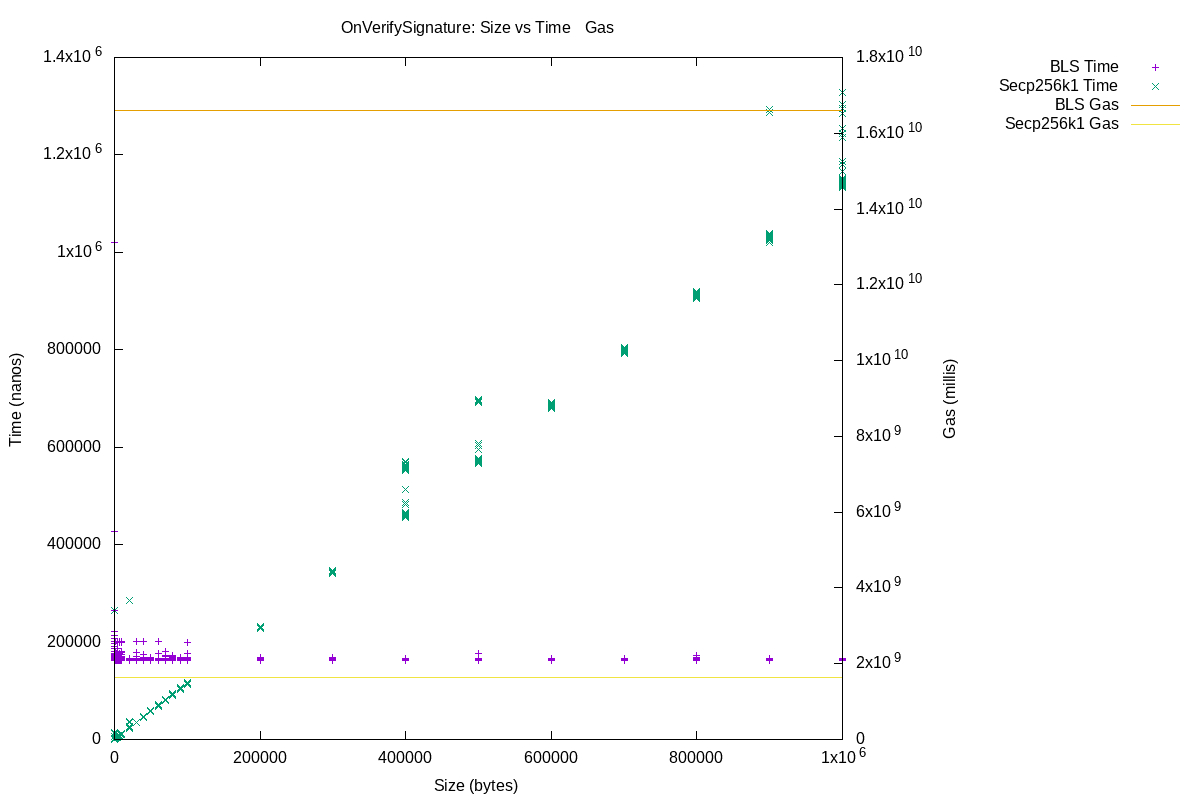
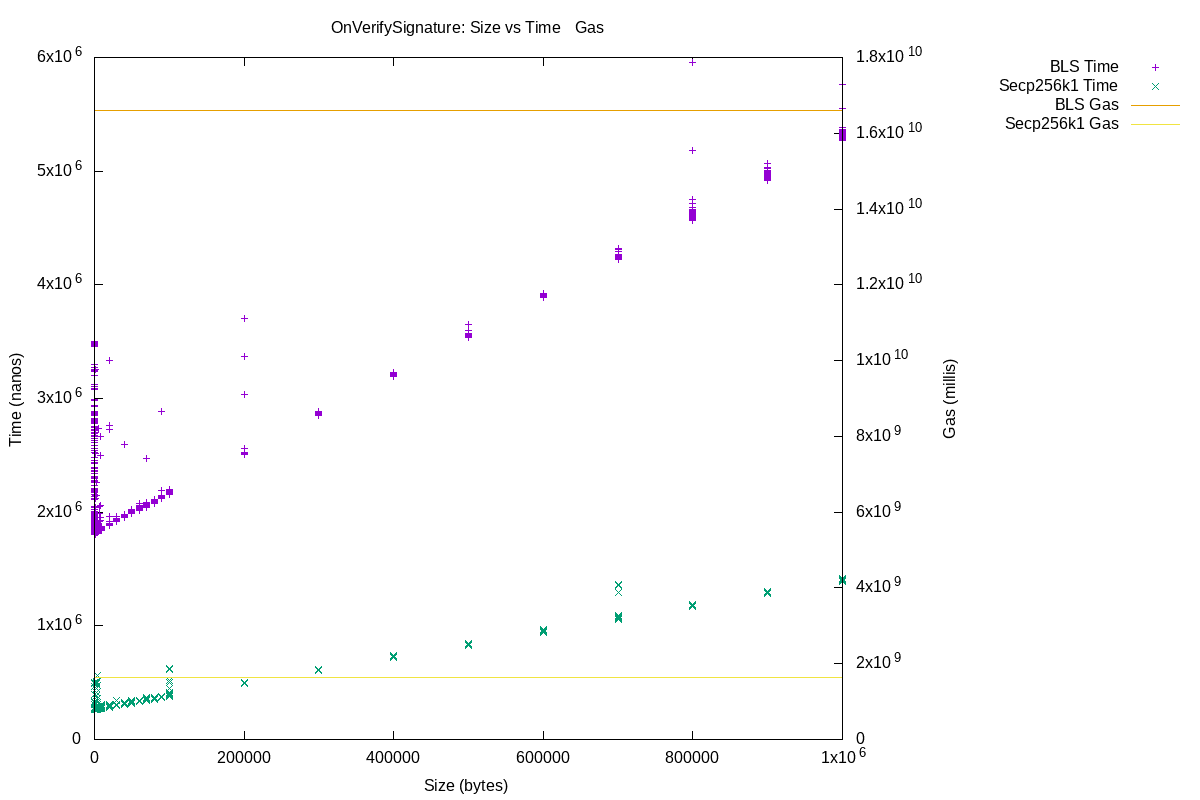
GAS-1160: Pass in a valid signature.

diff --git a/testing/calibration/src/bin/on_verify_signature.rs b/testing/calibration/src/bin/on_verify_signature.rs
@@ -5,7 +5,7 @@ use fil_gas_calibration_actor::{Method, OnVerifySignatureParams};
 use fvm_gas_calibration::*;
 use fvm_shared::address::Address;
 use fvm_shared::crypto::signature::SignatureType;
-use rand::{thread_rng, Rng};
+use rand::{thread_rng, Rng, RngCore};
 
 const CHARGE_NAME: &str = "OnVerifySignature";
 const METHOD: Method = Method::OnVerifySignature;
@@ -20,19 +20,45 @@ fn main() {
     let mut obs = Vec::new();
     let mut rng = thread_rng();
 
+    // Just some random data over which we can generate an example signature.
+    // Having a valid BLS signature is important otherwise verification is
+    // an instant rejection without hasing the input data.
+    let mut data = vec![0u8; 100];
+    rng.fill_bytes(&mut data);
+
     for sig_type in sig_types.iter() {
         let label = format!("{sig_type:?}");
 
-        let signer = match sig_type {
+        let (signer, signature) = match sig_type {
             SignatureType::Secp256k1 => {
                 let sk = libsecp256k1::SecretKey::random(&mut rng);
                 let pk = libsecp256k1::PublicKey::from_secret_key(&sk);
-                Address::new_secp256k1(&pk.serialize()).unwrap()
+                let addr = Address::new_secp256k1(&pk.serialize()).unwrap();
+
+                let hash: [u8; 32] = blake2b_simd::Params::new()
+                    .hash_length(32)
+                    .to_state()
+                    .update(&data)
+                    .finalize()
+                    .as_bytes()
+                    .try_into()
+                    .unwrap();
+
+                let (sig, recovery_id) =
+                    libsecp256k1::sign(&libsecp256k1::Message::parse(&hash), &sk);
+
+                let mut signature = vec![0u8; 65];
+                signature[..64].copy_from_slice(&sig.serialize());
+                signature[64] = recovery_id.serialize();
+
+                (addr, signature)
             }
             SignatureType::BLS => {
                 let sk = bls_signatures::PrivateKey::generate(&mut rng);
                 let pk = sk.public_key();
-                Address::new_bls(&pk.as_bytes()).unwrap()
+                let addr = Address::new_bls(&pk.as_bytes()).unwrap();
+                let sig = sk.sign(&data).as_bytes();
+                (addr, sig)
             }
         };
 
@@ -41,6 +67,7 @@ fn main() {
                 iterations,
                 size: *size,
                 signer,
+                signature: signature.clone(),
                 seed: rng.gen(),
             };
 

diff --git a/testing/calibration/contract/fil-gas-calibration-actor/src/lib.rs b/testing/calibration/contract/fil-gas-calibration-actor/src/lib.rs
@@ -5,7 +5,7 @@ use fvm_sdk::message::params_raw;
 use fvm_sdk::vm::abort;
 use fvm_shared::address::{Address, Protocol};
 use fvm_shared::crypto::hash::SupportedHashes;
-use fvm_shared::crypto::signature::{Signature, SignatureType, BLS_SIG_LEN, SECP_SIG_LEN};
+use fvm_shared::crypto::signature::{Signature, SignatureType};
 use fvm_shared::error::ExitCode;
 use num_derive::FromPrimitive;
 use num_traits::FromPrimitive;
@@ -24,7 +24,7 @@ pub enum Method {
     OnHashing = 1,
     /// Put and get random data to measure `OnBlock*`.
     OnBlock,
-    /// Try (and fail) to verify random data (fake signatures) with a public key.
+    /// Try (and fail) to verify random data with a public key and signature.
     OnVerifySignature,
 }
 
@@ -48,6 +48,11 @@ pub struct OnVerifySignatureParams {
     pub iterations: usize,
     pub size: usize,
     pub signer: Address,
+    /// A _valid_ signature over *something*, corresponding to the signature scheme
+    /// of the address. A completely random sequence of bytes for signature would be
+    /// immediately rejected by BLS, although not by Secp256k1. And we cannot generate
+    /// valid signatures inside the contract because the libs we use don't compile to Wasm.
+    pub signature: Vec<u8>,
     pub seed: u64,
 }
 
@@ -138,26 +143,16 @@ fn on_verify_signature(p: OnVerifySignatureParams) -> Result<()> {
         Protocol::Secp256k1 => SignatureType::Secp256k1,
         other => return Err(anyhow!("unexpected protocol: {other}")),
     };
-
-    let sig_size = match sig_type {
-        SignatureType::BLS => BLS_SIG_LEN,
-        SignatureType::Secp256k1 => SECP_SIG_LEN,
+    let sig = Signature {
+        sig_type,
+        bytes: p.signature,
     };
 
     let mut data = random_bytes(p.size, p.seed);
-    let mut sig = Signature {
-        sig_type,
-        bytes: random_bytes(sig_size, p.seed),
-    };
 
     for i in 0..p.iterations {
         random_mutations(&mut data, p.seed + i as u64, MUTATION_COUNT);
-        random_mutations(&mut sig.bytes, p.seed + i as u64, MUTATION_COUNT);
-
-        let is_valid = fvm_sdk::crypto::verify_signature(&sig, &p.signer, &data)?;
-
-        // Just a sanity check. From a runtime perspective it shouldn't matter if it's a valid signature.
-        assert_eq!(false, is_valid)
+        fvm_sdk::crypto::verify_signature(&sig, &p.signer, &data)?;
     }
 
     Ok(())
